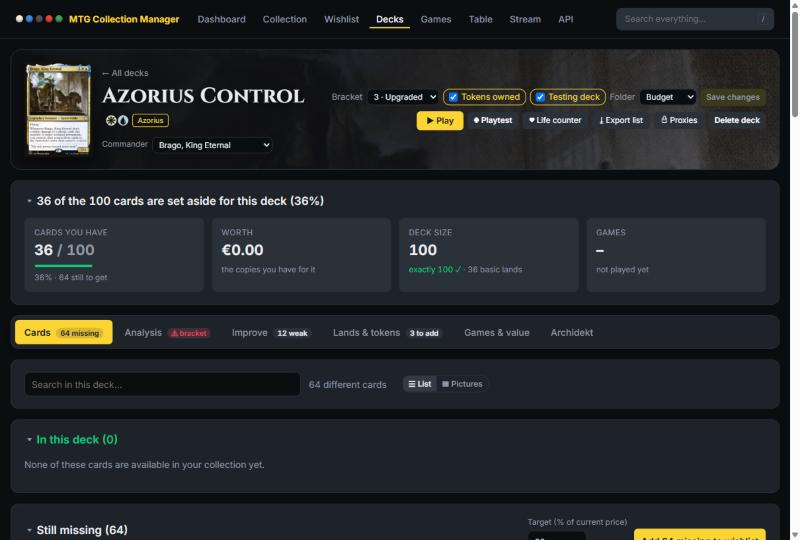
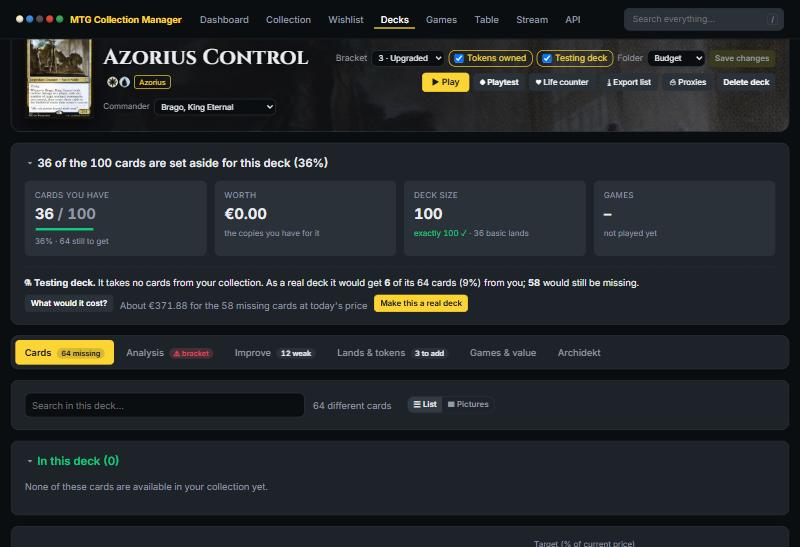
Testing decks: what they would get from the collection, what they would cost, Make this a real deck; the deck built from your cards now has lands

Changed region(s): [[0.0, 0.0, 1.0, 1.0], [0.75, 0.4148, 0.8125, 0.4444]]

diff --git a/app/templates/deck.html b/app/templates/deck.html
@@ -346,6 +346,38 @@
       <div class="sub">{% if deck_plays %}won {{ deck_plays.wins }}, last on {{ deck_plays.last_played }}{% else %}not played yet{% endif %}</div>
     </div>
   </div>
+  {% if real_preview %}
+  <div class="testing-panel">
+    <p><b>⚗ Testing deck.</b> It takes no cards from your collection. As a real deck it would get <b>{{ real_preview.usable }}</b> of its {{ real_preview.needed }} cards
+      ({{ real_preview.percent }}%) from you; <b>{{ real_preview.missing }}</b> would still be missing.</p>
+    <div class="row">
+      <button type="button" class="secondary small" id="real-cost-button" data-url="/decks/{{ deck.id }}/real-cost">What would it cost?</button>
+      <span id="real-cost" class="muted" aria-live="polite"></span>
+      <form class="inline" method="post" action="/decks/{{ deck.id }}/make-real" data-confirm="Click again to make this a real deck">
+        <button class="small" title="From now on this deck sets your copies aside, and other decks that are newer can lose cards to it">Make this a real deck</button>
+      </form>
+    </div>
+  </div>
+  <script>
+    document.getElementById("real-cost-button").addEventListener("click", async (event) => {
+      const button = event.currentTarget, out = document.getElementById("real-cost");
+      button.disabled = true;
+      out.textContent = "Looking up prices…";
+      try {
+        const response = await fetch(button.dataset.url);
+        if (!response.ok) throw new Error((await response.json()).detail || response.statusText);
+        const data = await response.json();
+        out.textContent = data.cards
+          ? `About €${data.cost.toFixed(2)} for the ${data.cards} missing card${data.cards === 1 ? "" : "s"} at today's price` +
+            (data.unpriced.length ? `, without a price: ${data.unpriced.join(", ")}` : "")
+          : "Nothing to buy: you have every card.";
+      } catch (error) {
+        out.textContent = "Could not look up the prices: " + error.message;
+      }
+      button.disabled = false;
+    });
+  </script>
+  {% endif %}
   {% else %}
   <div class="progress"><div style="width: {{ pct }}%"></div></div>
   <p class="muted">

diff --git a/app/templates/colour_group.html b/app/templates/colour_group.html
@@ -13,7 +13,7 @@
     <div class="small">You own <b>{{ c.copies }}</b> cop{{ 'y' if c.copies == 1 else 'ies' }}{% if c.copies > 1 %} · <span class="up">{{ c.free }} not in a deck</span>{% else %} · <span class="up">in no deck yet</span>{% endif %}</div>
     <form class="inline" method="post" action="/deck/colours/build" data-keep-scroll>
       <input type="hidden" name="commander" value="{{ c.name }}">
-      <button class="small" title="Makes a deck of this commander and the free cards of your collection that its decks play most, without lands">Build a deck from my cards</button>
+      <button class="small" title="Makes a deck of this commander and the free cards of your collection that its decks play most, with the lands you own and basic lands in its colours">Build a deck from my cards</button>
     </form>
     {% elif c.owned %}
     <div class="small"><span class="badge hit">✓ in your collection</span></div>

diff --git a/app/static/style.css b/app/static/style.css
@@ -1024,3 +1024,6 @@ a.group-chip:hover { border-color: var(--accent); color: var(--text); }
 .colour-bar .bar-R { background: #e2473d; } .colour-bar .bar-G { background: #2fa36a; }
 .colour-figures { color: var(--muted); font-size: 13px; }
 @media (max-width: 720px) { .colour-row { grid-template-columns: 1fr; gap: 2px; } }
+
+.testing-panel { margin-top: 16px; padding-top: 12px; border-top: 1px dashed var(--border, #2a3340); }
+.testing-panel p { margin: 0 0 8px; }

diff --git a/app/services/auto_deck.py b/app/services/auto_deck.py
@@ -1,5 +1,5 @@
-"""A deck made of the cards you have: the commander and the free cards of your collection that the decks with
-that commander play most (EDHREC), without lands."""
+"""A deck made of the cards you have: the commander, the free cards of your collection that the decks with that
+commander play most (EDHREC), the lands you own that those decks play, and basic lands for the rest."""
 
 from dataclasses import dataclass, field
 
@@ -7,22 +7,32 @@ from sqlmodel import Session
 
 from app.models import Deck
 from app.services import edhrec_compare
-from app.services.decks import _names
+from app.services.decks import BASIC_LANDS, _names
+from app.scryfall import name_key
 
-MAX_CARDS = 62  # a deck of 99 cards plays about 37 lands, which are left to you
-MIN_CARDS = 5  # fewer than this is no deck
+MAX_CARDS = 62  # spells: with the commander and the lands a deck of 100
+LAND_COUNT = 37  # lands in total, the ones you own first
+MIN_CARDS = 5  # fewer spells than this is no deck
+BASIC_FOR_COLOUR = {"W": "Plains", "U": "Island", "B": "Swamp", "R": "Mountain", "G": "Forest"}
 
 
 @dataclass
 class AutoDeck:
     commander: str
-    cards: list[str] = field(default_factory=list)  # the most played first
+    cards: list[str] = field(default_factory=list)  # the spells, the most played first
     skipped_used: int = 0  # cards of EDHREC's list that you own but that sit in other decks
+    lands: list[str] = field(default_factory=list)  # lands (not basic) you own that these decks play
+    basics: dict[str, int] = field(default_factory=dict)  # basic lands to fill the rest
 
     @property
     def decklist(self) -> str:
-        """The deck as a list the deck pages understand: the commander and one line per card."""
-        return "\n".join([f"1 {self.commander} [Commander]", *(f"1 {name}" for name in self.cards)])
+        """The deck as a list the deck pages understand: the commander, the cards, the lands and the basics."""
+        return "\n".join([
+            f"1 {self.commander} [Commander]",
+            *(f"1 {name}" for name in self.cards),
+            *(f"1 {name}" for name in self.lands),
+            *(f"{count} {land}" for land, count in self.basics.items()),
+        ])
 
 
 def is_land(card: "edhrec_compare.EdhrecCard") -> bool:
@@ -30,19 +40,45 @@ def is_land(card: "edhrec_compare.EdhrecCard") -> bool:
     return "land" in card.category.lower() or "Land" in kind.split(" // ")[0]
 
 
+def basic_lands(identity: str, spells: list[str], colours_of: dict[str, str], count: int) -> dict[str, int]:
+    """`count` basic lands for a commander of this colour identity ("WUB", "" for colourless), shared out over its
+    colours by how many of the spells use each (every colour gets at least one)."""
+    if count <= 0:
+        return {}
+    letters = [letter for letter in "WUBRG" if letter in identity]
+    if not letters:
+        return {"Wastes": count}
+    weights = {letter: 1 + sum(1 for name in spells if letter in colours_of.get(name, "")) for letter in letters}
+    total = sum(weights.values())
+    shares = {letter: count * weight // total for letter, weight in weights.items()}
+    # What rounding left over goes to the colours with the largest remainder.
+    for letter in sorted(letters, key=lambda l: (count * weights[l] % total), reverse=True)[: count - sum(shares.values())]:
+        shares[letter] += 1
+    return {BASIC_FOR_COLOUR[letter]: number for letter, number in shares.items() if number}
+
+
 def build(session: Session, commander: str, page: dict) -> AutoDeck | None:
     """The deck for `commander` (EDHREC's `page` of it) from your free cards; None when you own no free copy
-    of the commander. Lands are left out; the cards are the ones most of its decks play."""
+    of the commander. The spells are the ones most of its decks play, then come the lands of that list that you own,
+    and basic lands in its colours fill the rest."""
     comparison = edhrec_compare.compare(session, Deck(id=-1, name="", commander=commander), page)
     have = edhrec_compare._collection_by_name(session)
-    if not any(have.get(key, [0, 0])[1] > 0 for key in _names(commander)):
+    owned = [have[key] for key in _names(commander) if key in have and have[key][1] > 0]
+    if not owned:
         return None
     deck = AutoDeck(commander)
+    colours: dict[str, str] = {}
     for card in comparison.cards:  # most played first
+        if card.card is not None and card.card.colors:
+            colours[card.name] = card.card.colors
         if is_land(card):
+            if card.free > 0 and name_key(card.name) not in BASIC_LANDS and len(deck.lands) < LAND_COUNT:
+                deck.lands.append(card.name)
             continue
         if card.owned and card.free <= 0:
             deck.skipped_used += 1
         if card.free > 0 and len(deck.cards) < MAX_CARDS:
             deck.cards.append(card.name)
+    identity = getattr(owned[0][2], "identity", None) or ""
+    deck.basics = basic_lands(identity, deck.cards, colours, LAND_COUNT - len(deck.lands))
     return deck

diff --git a/app/routers/pages.py b/app/routers/pages.py
@@ -623,7 +623,7 @@ async def deck_page(
 @router.post("/deck/colours/build")
 async def build_deck_from_collection(commander: str = Form(...), session: Session = Depends(get_session),
                                      edhrec: EdhrecClient = Depends(get_edhrec)):
-    """Make a deck of this commander and the free cards of your collection that its decks play most (no lands)."""
+    """Make a deck of this commander and the free cards of your collection that its decks play most, with the lands you own and basic lands in its colours."""
     from app.services import auto_deck
 
     back = "/deck"
@@ -640,7 +640,11 @@ async def build_deck_from_collection(commander: str = Form(...), session: Sessio
     deck = decks.save_deck(session, f"{commander} - from my collection", cards, left_out)
     session.commit()
     note = f" {made.skipped_used} more you own are in other decks." if made.skipped_used else ""
-    return redirect(f"/decks/{deck.id}", f"Built a deck of {len(made.cards)} cards you own, without lands.{note}")
+    lands = [f"{len(made.lands)} land{'s' if len(made.lands) != 1 else ''} you own"] if made.lands else []
+    if made.basics:
+        lands.append(f"{sum(made.basics.values())} basic lands")
+    with_lands = f", with {' and '.join(lands)}" if lands else ""
+    return redirect(f"/decks/{deck.id}", f"Built a deck of {len(made.cards)} cards you own{with_lands}.{note}")
 
 
 @router.get("/deck/colours/{slug}")
@@ -839,6 +843,7 @@ async def saved_deck_page(
                   deck_achievements=achievements.achievements(session)[1].get(deck.id, []),
                   card_wall=deck_insights.card_wall(session, deck, deck_rows),
                   results=games.RESULTS, win_methods=games.WIN_METHODS, today=dt.date.today().isoformat(),
+                  real_preview=decks.real_preview(session, deck) if deck.testing else None,
                   summaries=summaries, folders=decks.deck_folders(session), left_out=decks.deck_left_out(session, deck),
                   bracket=deck.bracket, brackets=decks.BRACKETS, basic_names=decks.BASIC_LAND_NAMES,
                   tracked_basics=decks.tracked_basic_lands(session, deck), deck_link=decks.deck_url(deck))
@@ -941,6 +946,35 @@ async def saved_deck_sync(deck_id: int, session: Session = Depends(get_session))
         return redirect(f"/decks/{deck_id}", f"Could not sync: {exc}", error=True)
     session.commit()
     return redirect(f"/decks/{deck_id}", result.summary())
+
+
+@router.get("/decks/{deck_id}/real-cost")
+async def saved_deck_real_cost(deck_id: int, session: Session = Depends(get_session),
+                               scryfall: ScryfallClient = Depends(get_scryfall)):
+    """What it would cost to make this testing deck real (for the "What would it cost?" button)."""
+    deck = session.get(Deck, deck_id)
+    if deck is None:
+        raise HTTPException(status_code=404, detail="Deck not found")
+    try:
+        result = await decks.real_cost(session, scryfall, deck)
+    except ScryfallError as exc:
+        raise HTTPException(status_code=502, detail=str(exc))
+    return {"cost": result.cost, "cards": result.cards, "unpriced": result.unpriced}
+
+
+@router.post("/decks/{deck_id}/make-real")
+def saved_deck_make_real(deck_id: int, session: Session = Depends(get_session)):
+    """The "Make this a real deck" button on a testing deck: from now on it takes copies from the collection."""
+    deck = session.get(Deck, deck_id)
+    if deck is None:
+        return redirect("/deck", "Deck not found", error=True)
+    decks.set_testing(session, deck, False)
+    session.commit()
+    summary = next(s for s in decks.deck_summaries(session) if s.deck.id == deck.id)
+    return redirect(
+        f"/decks/{deck_id}",
+        f"{deck.name} is a real deck now: {summary.usable} of its {summary.needed} cards are set aside from your collection.",
+    )
 
 
 @router.post("/decks/{deck_id}/add-all")

diff --git a/app/services/decks.py b/app/services/decks.py
@@ -423,7 +423,10 @@ class _CardPool:
     or let the app decide.
     """
 
-    def __init__(self, session: Session, rows: list[CollectionRow] | None = None) -> None:
+    def __init__(
+        self, session: Session, rows: list[CollectionRow] | None = None, assume_real: set[int] | None = None
+    ) -> None:
+        """`assume_real`: ids of testing decks to share the collection out to as if they were real decks."""
         self.printings: dict[str, list[CollectionRow]] = {}
         self._alias: dict[str, str] = {}  # "fire" -> "fire // ice"
         for row in collection_rows(session) if rows is None else rows:
@@ -456,7 +459,7 @@ class _CardPool:
         self.remaining = {row.entry.id: row.entry.quantity for rows in self.printings.values() for row in rows}
         self.claims: dict[int, dict[str, dict[int, int]]] = {deck.id: {} for deck in self.decks}
         # A deck you are only testing takes nothing from the collection: its cards all stay missing.
-        claiming = [deck for deck in self.decks if not deck.testing]
+        claiming = [deck for deck in self.decks if not deck.testing or deck.id in (assume_real or ())]
         for deck in claiming:  # chosen printings first
             for key, need in self.needs[deck.id].items():
                 if need.pin is not None and not need.unassigned:
@@ -1356,6 +1359,58 @@ def set_testing(session: Session, deck: Deck, testing: bool) -> None:
     deck.testing = testing
     session.add(deck)
     session.flush()
+
+
+@dataclass
+class RealPreview:
+    """What a testing deck would get from your collection if it were a real deck."""
+
+    needed: int
+    usable: int
+    missing_rows: list[DeckRow]
+
+    @property
+    def missing(self) -> int:
+        return self.needed - self.usable
+
+    @property
+    def percent(self) -> int:
+        return round(self.usable / self.needed * 100) if self.needed else 0
+
+
+def real_preview(session: Session, deck: Deck) -> RealPreview:
+    rows = _CardPool(session, assume_real={deck.id}).rows(deck_id=deck.id)
+    return RealPreview(
+        needed=sum(row.needed for row in rows),
+        usable=sum(row.usable for row in rows),
+        missing_rows=[row for row in rows if row.missing > 0],
+    )
+
+
+@dataclass
+class RealCost:
+    cost: float = 0.0  # what the missing cards cost, one cheapest copy each
+    cards: int = 0  # copies that are missing
+    unpriced: list[str] = field(default_factory=list)  # cards without a price (or that Scryfall could not find)
+
+
+async def real_cost(session: Session, scryfall: ScryfallClient, deck: Deck) -> RealCost:
+    """What it would cost to make a testing deck real: the cards it would still miss, at today's Scryfall price."""
+    result = RealCost()
+    rows = real_preview(session, deck).missing_rows
+    if not rows:
+        return result
+    resolved = await scryfall.resolve([row.card_ref() for row in rows])
+    await scryfall.fill_missing_prices([data for data in resolved if data is not None])
+    for row, data in zip(rows, resolved):
+        result.cards += row.missing
+        price = data.price_eur if data is not None else None
+        if price is None:
+            result.unpriced.append(row.name)
+        else:
+            result.cost += price * row.missing
+    result.cost = round(result.cost, 2)
+    return result
 
 
 def deck_folders(session: Session) -> list[DeckFolder]:

diff --git a/tests/test_colour_groups.py b/tests/test_colour_groups.py
@@ -175,7 +175,18 @@ async def test_the_summary_has_decks_new_cards_and_alerts_and_can_be_daily(clien
     assert "Most valuable new: Lim-Dûl&#39;s Vault ×2" in page and "Most valuable card:" in page
 
 
-def test_a_deck_is_built_from_the_free_cards_you_own_without_lands(client, session, monkeypatch):
+def test_basic_lands_follow_the_colours_of_the_commander_and_the_spells():
+    from app.services.auto_deck import basic_lands
+
+    assert basic_lands("", [], {}, 5) == {"Wastes": 5}
+    assert basic_lands("G", ["a"], {}, 36) == {"Forest": 36}
+    assert basic_lands("WU", [], {}, 0) == {}
+    # more blue spells than white: more Islands, and both colours get lands, all 36 of them
+    split = basic_lands("WU", ["a", "b", "c", "d"], {"a": "U", "b": "U", "c": "U", "d": "W"}, 36)
+    assert sum(split.values()) == 36 and split["Island"] > split["Plains"] > 0
+
+
+def test_a_deck_is_built_from_the_free_cards_you_own_with_lands(client, session, monkeypatch):
     from app.services import auto_deck
     from tests import conftest
 
@@ -195,10 +206,11 @@ def test_a_deck_is_built_from_the_free_cards_you_own_without_lands(client, sessi
         deck = next(d for d in client.get("/api/decks").json() if d["name"] == "Marwyn, the Nurturer - from my collection")
         detail = client.get(f"/api/decks/{deck['id']}").json()
         names = {card["name"] for card in detail["cards"]}
-        # the commander and the cards most played with it that are free; no Sol Ring (in another deck), no land
-        assert names == {"Marwyn, the Nurturer", "Lim-Dûl's Vault", "Pitiless Plunderer"} and detail["commander"] == "Marwyn, the Nurturer"
+        # the commander, the cards most played with it that are free and the free land of its list; no Sol Ring (in another deck)
+        assert names == {"Marwyn, the Nurturer", "Lim-Dûl's Vault", "Pitiless Plunderer", "Fire // Ice"} and detail["commander"] == "Marwyn, the Nurturer"
         page = client.get(made.headers["location"]).text
-        assert "Built a deck of 2 cards you own, without lands" in page and "1 more you own are in other decks" in page
+        assert "Built a deck of 2 cards you own, with 1 land you own and 36 basic lands" in page and "1 more you own are in other decks" in page
+        assert "36 basic lands" in page
 
         # a commander EDHREC does not know
         assert "Could not build a deck for Nobody" in client.post("/deck/colours/build", data={"commander": "Nobody"}).text

diff --git a/tests/test_deck_folders.py b/tests/test_deck_folders.py
@@ -87,6 +87,41 @@ async def test_add_all_cards_puts_back_what_was_taken_out_and_new_copies(session
     assert all(r.missing == 0 for r in saved_deck_rows(session, deck))
 
 
+async def test_a_testing_deck_shows_what_it_would_get_and_cost_and_can_be_made_real(session, scryfall):
+    await add_card_by_name(session, scryfall, "Sol Ring", quantity=1)
+    deck = save_deck(session, "Try", [DeckCard("Sol Ring", 1), DeckCard("Fire // Ice", 1)])
+    decks.set_testing(session, deck, True)
+    session.commit()
+    assert [s.usable for s in deck_summaries(session)] == [0]
+
+    preview = decks.real_preview(session, deck)
+    assert (preview.needed, preview.usable, preview.missing, preview.percent) == (2, 1, 1, 50)
+    assert [row.name for row in preview.missing_rows] == ["Fire // Ice"]
+    assert [s.usable for s in deck_summaries(session)] == [0]  # a preview takes nothing
+
+    cost = await decks.real_cost(session, scryfall, deck)
+    assert cost.cards == 1 and cost.cost > 0 and cost.unpriced == []
+
+    decks.set_testing(session, deck, False)
+    session.commit()
+    assert [s.usable for s in deck_summaries(session)] == [1]
+
+
+def test_make_real_and_the_cost_through_the_pages(client):
+    client.post("/api/collection", json={"name": "Sol Ring"})
+    client.post("/deck", data={"decklist": "1 Sol Ring\n1 Fire // Ice", "deck_name": "Try", "action": "save", "testing": "on"})
+    deck_id = client.get("/api/decks").json()[0]["id"]
+
+    page = client.get(f"/decks/{deck_id}").text
+    assert "Make this a real deck" in page and "What would it cost?" in page
+    assert client.get(f"/decks/{deck_id}/real-cost").json()["cards"] == 1
+
+    assert client.post(f"/decks/{deck_id}/make-real").status_code == 200
+    page = client.get(f"/decks/{deck_id}").text
+    assert "Make this a real deck" not in page
+    assert client.get(f"/decks/999/real-cost").status_code == 404
+
+
 def test_a_deck_can_be_added_as_a_testing_deck(client):
     client.post("/api/collection", json={"name": "Sol Ring"})
     page = client.get("/deck").text

diff --git a/README.md b/README.md
@@ -104,7 +104,7 @@ Press **▶ Play** on a deck and the stream screen opens with every token that d
 
 ![Folders for decks: a Folder column with a menu per deck, a filter on folder, and the Folders panel below the list to make, rename and delete them; decks marked as testing decks show a badge](docs/decks-folders.jpg)
 
-![A testing deck: the Testing deck box and the Folder menu next to the bracket; the deck takes no cards from your collection, so all 64 cards count as missing and it is worth 0 euros](docs/deck-testing.jpg)
+![A testing deck: the Testing deck box and the Folder menu next to the bracket; the deck takes no cards from your collection, so all 64 cards count as missing and it is worth 0 euros. Below the numbers: what it would get if it were real, what that would cost, and Make this a real deck](docs/deck-testing.jpg)
 
 ![Adding a deck as a testing deck: tick Testing deck next to Include tokens before saving](docs/deck-add-testing.jpg)
 
@@ -278,6 +278,7 @@ Press **▶ Play** on a deck and the stream screen opens with every token that d
 - "Tokens owned" on a deck: tick it when you have the tokens the deck needs. Until you set it, a deck whose list has tokens counts as ticked; adding tokens to its list never ticks it for you. The saved decks show a "tokens owned" badge and can be filtered on it, so you know which decks are ready to play
 - Folders for decks: make them under the list of decks ("Folders"), put a deck in one with the menu in its row (or on its own page) and filter the list on a folder. Deleting a folder keeps its decks
 - "Testing deck" on a deck: tick it when you only want to try the deck out. It takes no copies from your collection, so every card counts as missing (the Proxies sheet prints them) and your real decks keep their cards
+- On a testing deck a line says how many cards it would get from your collection if it were a real deck, "What would it cost?" adds up the missing cards at today's price, and "Make this a real deck" (second click) turns it into a normal deck that takes its copies from your collection
 - "Add all cards to this deck" under Still missing: puts one copy of every missing card in your collection (after a second click), so the deck is complete. Cards you took out come back and new copies from an import that wait go in first. Not on testing decks. Also ticking "Testing deck" when you add a deck makes it a testing deck from the start
 - Search the saved decks on deck name or on a card: "arcane signet" lists every deck that runs it, with the matching cards under the deck name
 - Filter the saved decks on colour: every deck shows the colour identity of its cards, and you pick decks with exactly, any of, or within the chosen colours
@@ -285,7 +286,7 @@ Press **▶ Play** on a deck and the stream screen opens with every token that d
 - Follow an Archidekt deck: a deck saved from an Archidekt link (or given one later) is brought up to date when the deck changes there, automatically every few hours or with "Sync now"; printings you chose and cards you took out are kept
 - The printing from the deck list comes along: an Archidekt deck (or a text list with sets) knows the set and card number of every card. If you own that printing it goes to that deck, also when another deck had taken it only because any copy would do, and missing cards go on the wishlist in that printing
 - Choose the printing: if you own a card in several printings you pick which one is in the deck (say, the foil); otherwise the cheapest free copy is used
-- Colour groups: every deck shows the name of its colours (Selesnya, Jund, Mono-blue, Glint-Eye...), and the deck list shows which of the 32 colour groups you have no deck in yet. A click on a group opens two lists: the commanders you own in exactly those colours that no deck uses yet, each with a button **Build a deck from my cards** that makes a deck of that commander and your free cards its decks play most on EDHREC (lands left out, they are for you to add), and the commanders that most decks play, each with how many of their 60 most played cards you already own (EDHREC). The deck list can be filtered and sorted on colour group, and the dashboard has a Colours tab with how your whole collection is spread over the five colours and in which you are weakest
+- Colour groups: every deck shows the name of its colours (Selesnya, Jund, Mono-blue, Glint-Eye...), and the deck list shows which of the 32 colour groups you have no deck in yet. A click on a group opens two lists: the commanders you own in exactly those colours that no deck uses yet, each with a button **Build a deck from my cards** that makes a deck of that commander and your free cards its decks play most on EDHREC (up to 62 spells), with the lands of that list that you own and basic lands in the colours of the commander to make 37 lands, shared out over the colours by how many spells use each, and the commanders that most decks play, each with how many of their 60 most played cards you already own (EDHREC). The deck list can be filtered and sorted on colour group, and the dashboard has a Colours tab with how your whole collection is spread over the five colours and in which you are weakest
 - Deck value: every saved deck shows what the copies in it are worth, and a chart of their value over time
 
 ## Quick start
